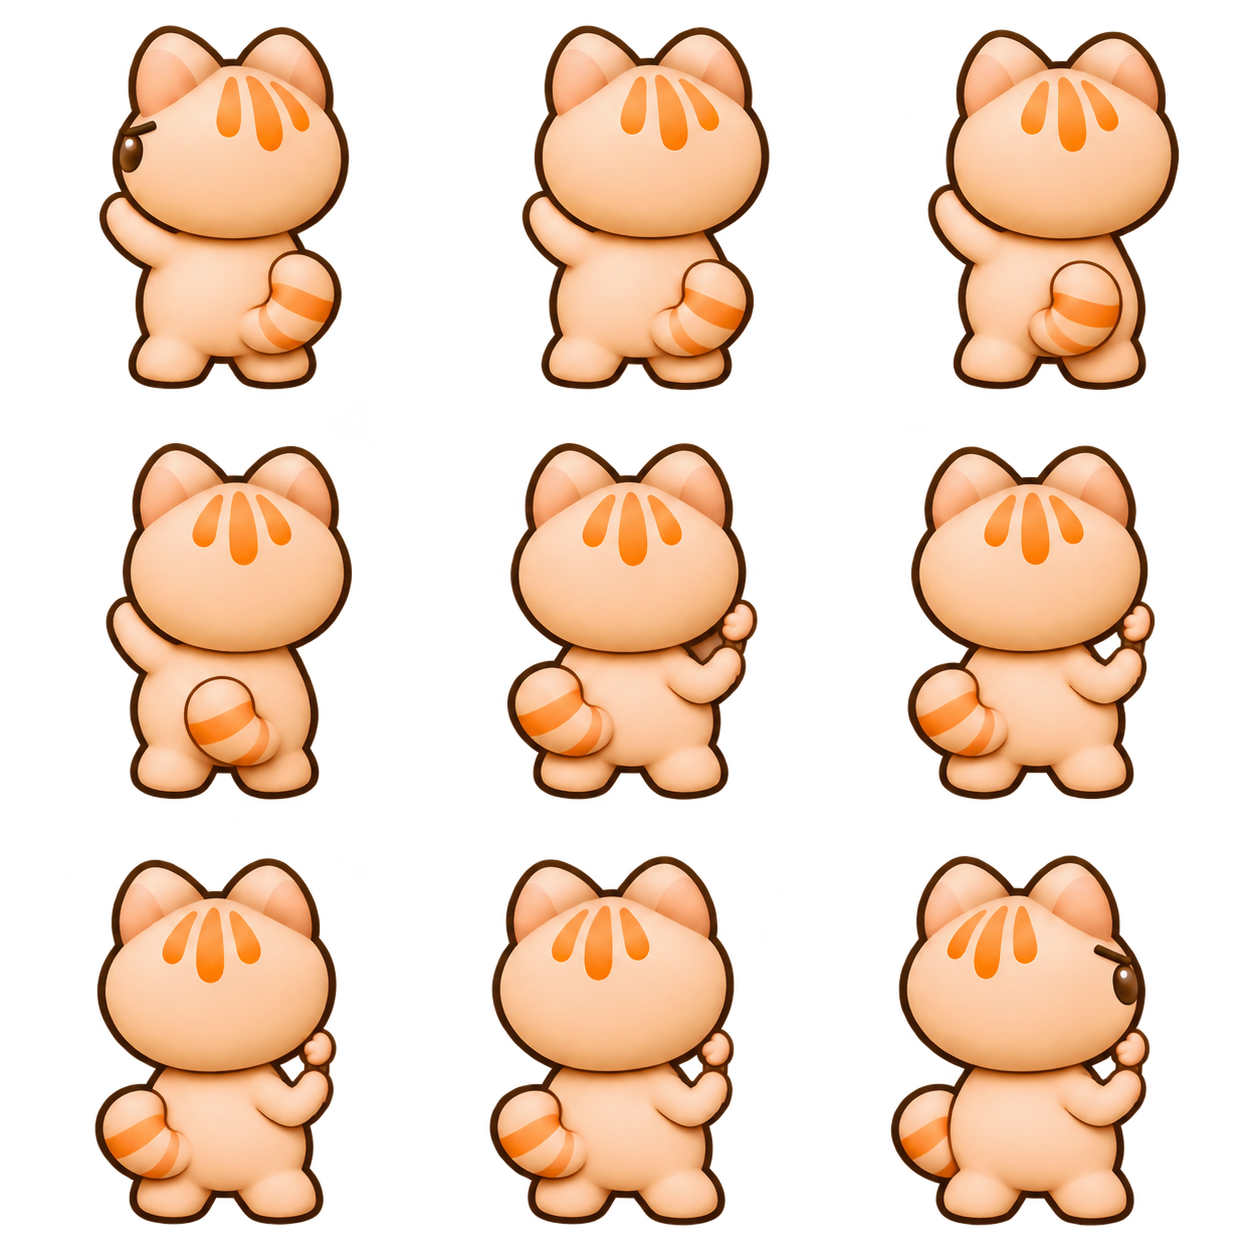
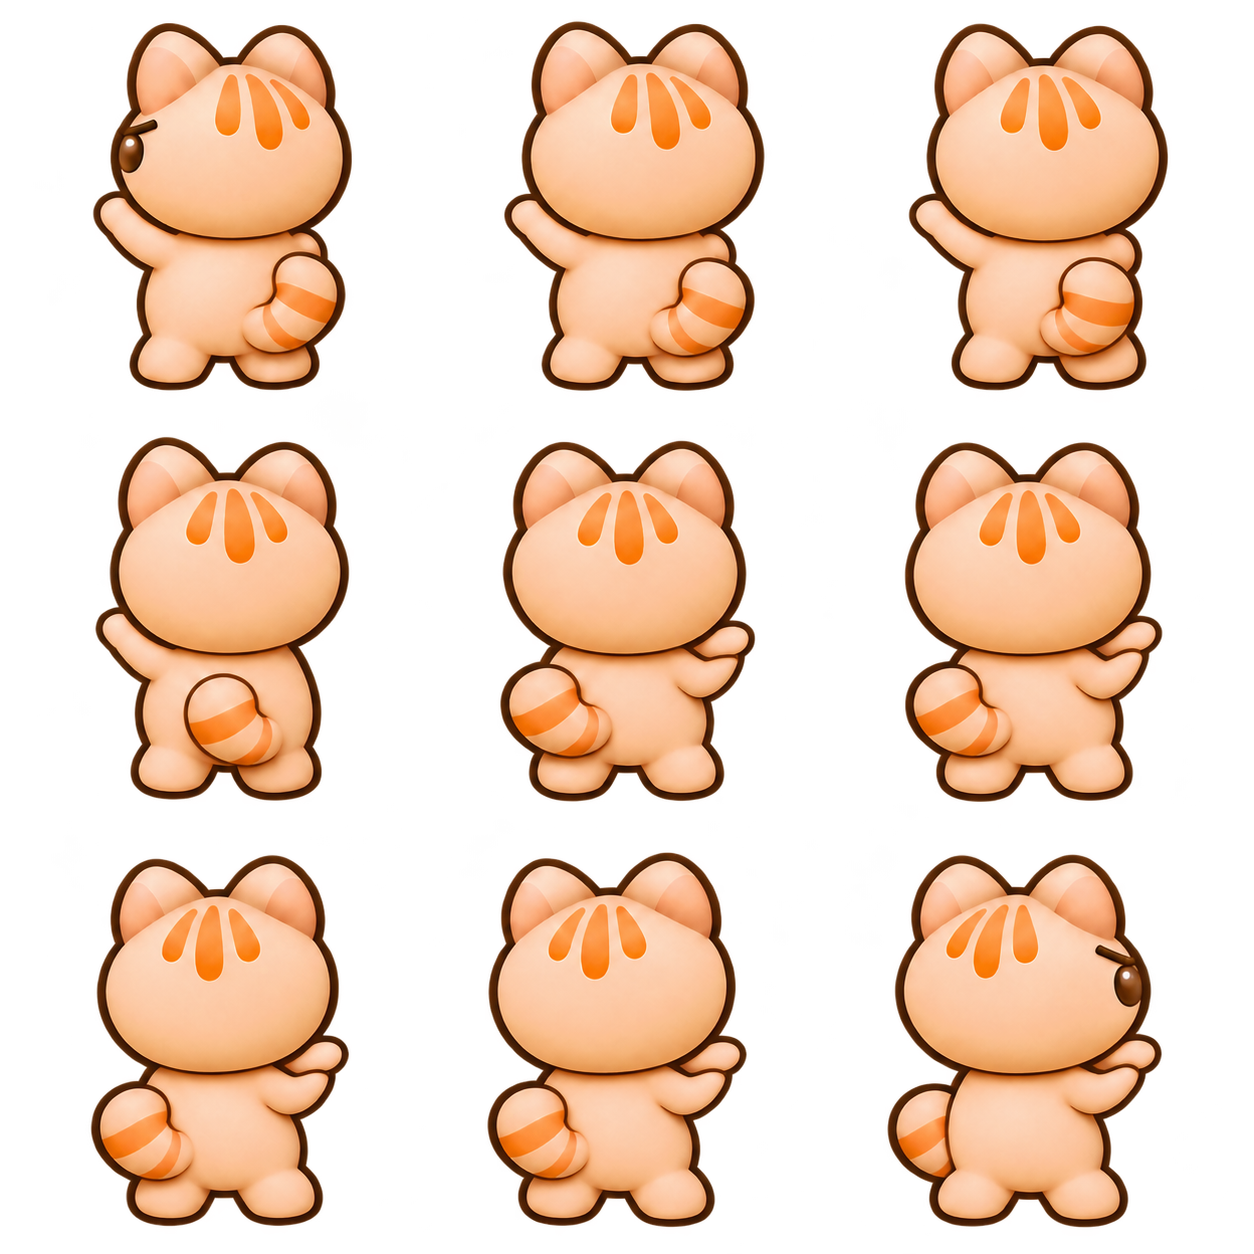
고양이 7종 외곽선과 총 아래 받치는 왼손 자세 적용

diff --git a/app/src/mental/assets/README.md b/app/src/mental/assets/README.md
@@ -4,11 +4,13 @@
 
 `cat-hero-poses.png`와 `cat-{sky,mint,lilac,sunset,night,snow}-poses.png`는 각 고양이 전용 3열 × 3행 투명 아틀라스다. 읽는 순서로 좌60, 좌45, 좌30, 좌15, 중앙, 우15, 우30, 우45, 우60도다. 승인한 7번 견착 자세를 바탕으로 팔·손·고개·꼬리까지 함께 그렸다. 왼쪽 네 자세는 손가락을 머리 뒤로 가리고, 좌우60도에서는 고개를 살짝 돌린다.
 
+추가 승인한 [동료 외곽선 시안](../../../../docs/mockups/2026-11-14-outlined-underhand/approved-companions.png)과 [사장냥 왼손 시안](../../../../docs/mockups/2026-11-14-outlined-underhand/approved-hero.png)을 반영했다. 모든 고양이에 사장냥과 같은 짙은 갈색 외곽선 및 팔·꼬리의 내부 경계선을 넣었다. 왼손은 총 앞부분을 아래에서 받치는 작은 앞발로, 오른손은 어깨 가까이에서 잡는 자세로 그린다. 몸·머리와 가까운 손이 총을 가리되 총 윗면과 총구는 드러낸다.
+
 동료는 `idle/assets/cat-portraits.png`의 각자 눈을 따른다: 하늘냥의 둥근 눈·완만한 눈썹, 민트냥의 속눈썹, 라일락냥의 한쪽 윙크, 노을냥의 웃는 눈, 밤냥의 금빛 홍채, 눈꽃냥의 파란 눈. 기존 두 모델에 tint를 입히던 방식은 쓰지 않는다.
 
 `catPose.ts`가 15도 간격으로 자세를 선택하며 시각적 조준은 ±60도로 제한한다. 몸 자체는 360도 회전하지 않는다. 등급별 총 윗면을 몸 뒤에 합성하고, 견착 손 아래로 노출될 개머리판은 가린다. 탄환은 선택한 자세의 실제 총구에서 표적을 향하므로 공격력·명중 규칙은 유지한다. 달릴 때에는 상체를 고정하고 발만 움직이며, 고양이별 캔버스 하나를 재사용한다.
 
-- [게임 합성 미리보기](../../../../docs/mockups/2026-11-14-cat-poses/game-poses.png) — `node scripts/catPosePreview.mjs`로 다시 생성
+- [게임 합성 미리보기](../../../../docs/mockups/2026-11-14-outlined-underhand/game-poses.png) — `node scripts/catPosePreview.mjs`로 다시 생성
 - `node scripts/battleFeedbackCheck.mjs` — 방어/공격 × 모션 감소, 320/390px, 총구/피해/9방향/고양이 7종/무기 12등급/달리기 텍스처 재사용 검증
 - 생성: image_gen 편집, 투명 배경. 승인된 사장냥 9방향 몸·팔 원본을 자세 참조로, 카드 초상화를 개별 정체성 참조로 사용했다. 무기·글자·화살표·그림자는 제외했다. 라일락냥의 좌60/우60 얼굴은 뒷머리 가장자리에 윙크/뜬 눈만 보이도록 한 번 더 편집했다.
 
